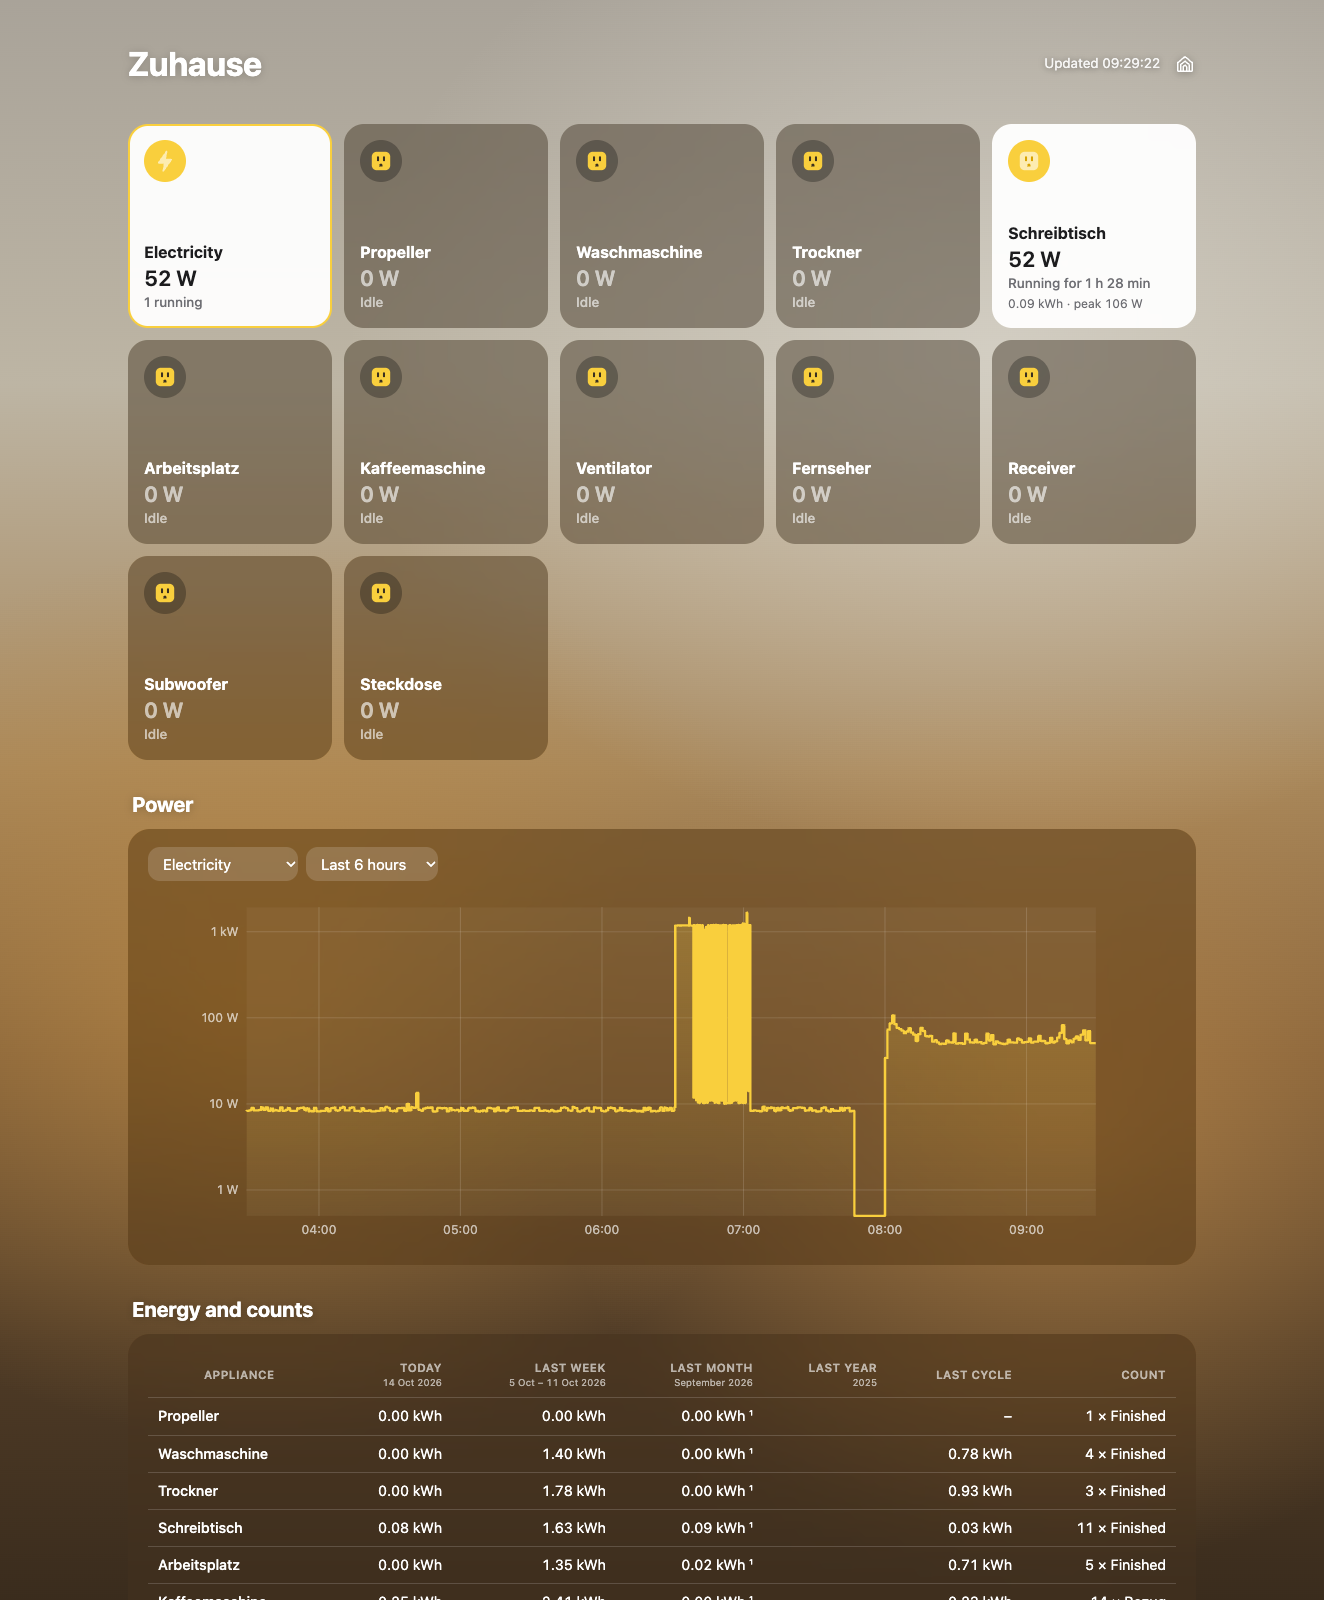
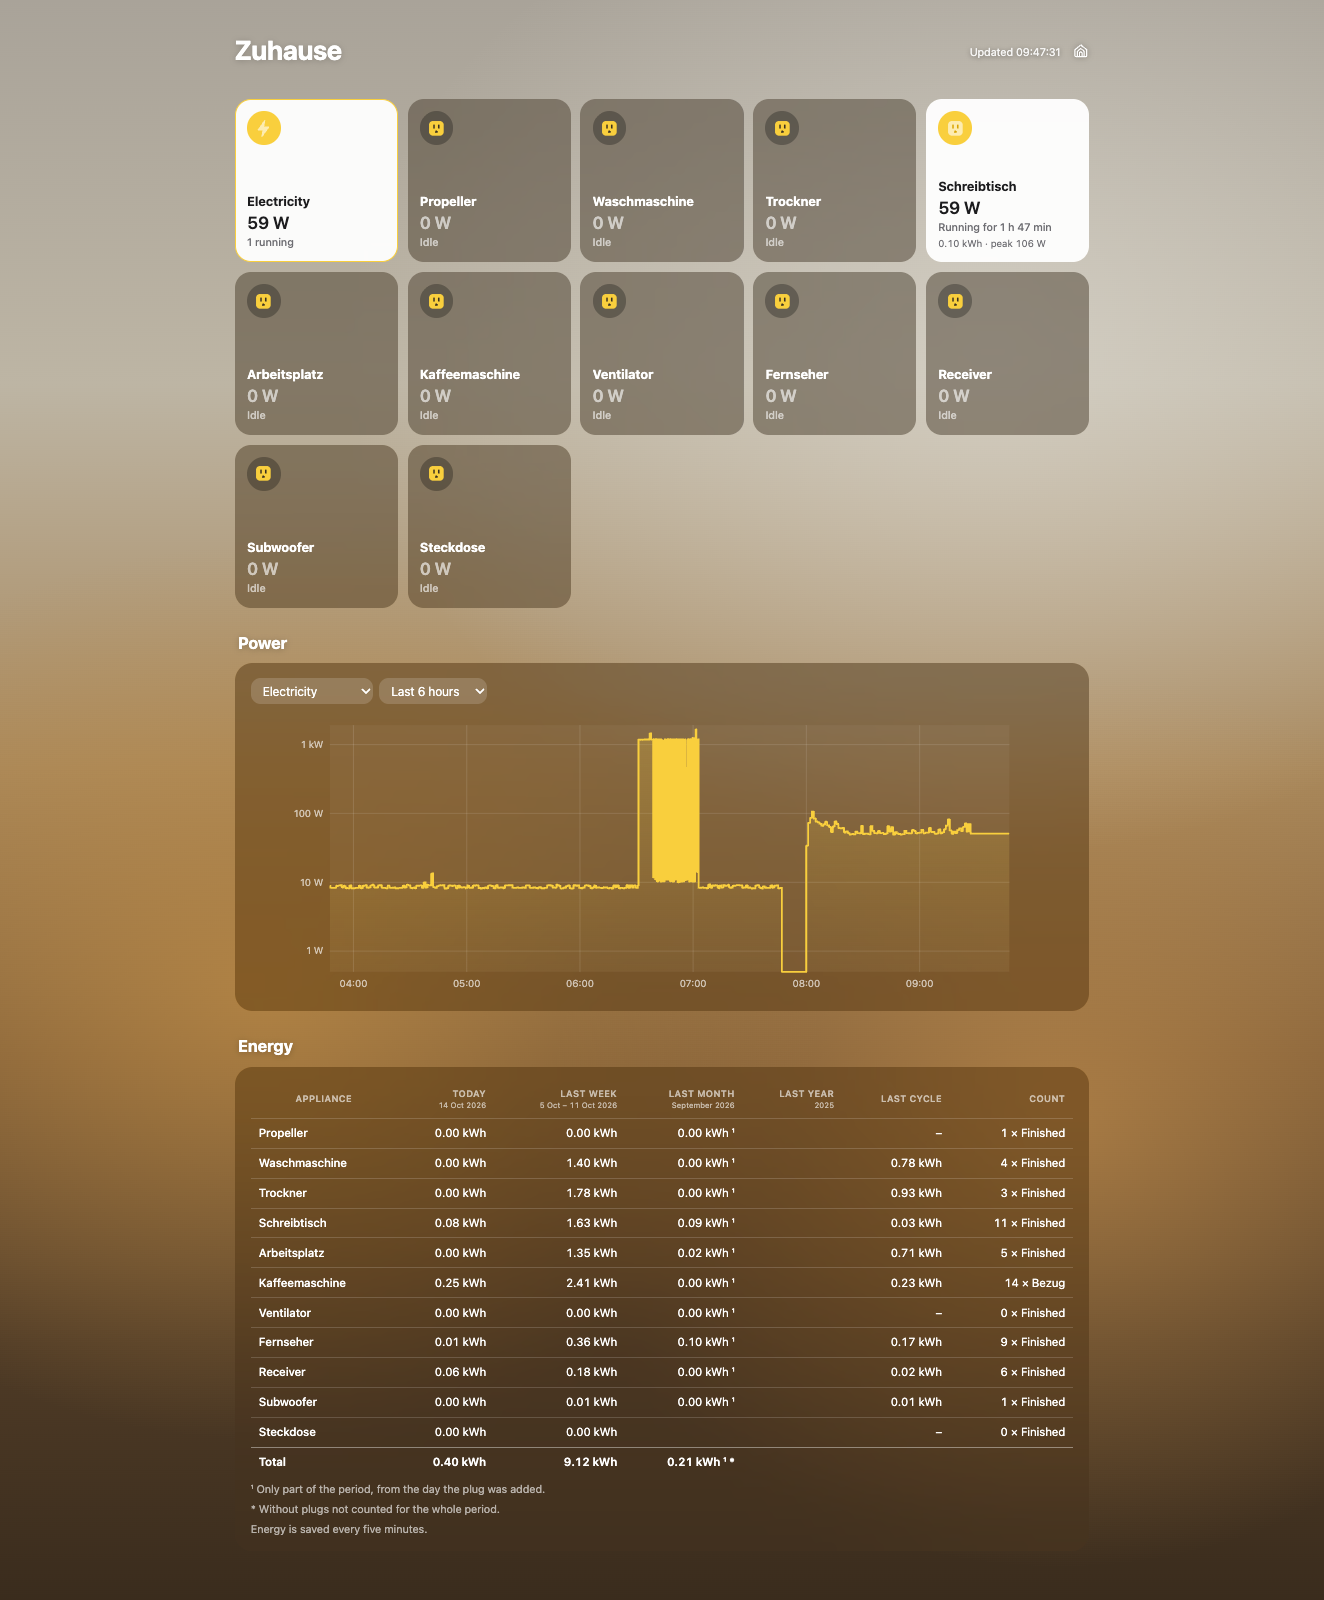
1.3.1: the dashboard a fifth smaller, statistics headed Energy
Drawn at zoom .8 above phone width, as if zoomed out twice; "Energy and
counts" is now "Energy". New README screenshots.

diff --git a/web/index.html b/web/index.html
@@ -38,6 +38,12 @@
     :root[data-theme="light"] { color-scheme: light; }
     :root[data-theme="dark"] { color-scheme: dark; }
     * { box-sizing: border-box; }
+    /* Everything a fifth smaller than the browser would draw it, as zooming out
+       twice: a wall tablet or a desk screen sees all tiles and the chart at once.
+       Not on a phone, where the text would get too small. */
+    @media (min-width: 561px) {
+      html { zoom: .8; }
+    }
     body { margin: 0; background: var(--bg); color: var(--text);
            font: 15px/1.4 -apple-system, BlinkMacSystemFont, "Segoe UI", Roboto, Helvetica, Arial, sans-serif; }
     main { max-width: 1100px; margin: 0 auto; padding: 20px 16px 40px; }
@@ -226,7 +232,7 @@
       <div id="chart"></div>
     </div>
 
-    <h2>Energy and counts</h2>
+    <h2>Energy</h2>
     <div class="card panel">
       <div class="scroll" id="stats"></div>
       <div class="muted notes" id="notes"></div>

diff --git a/CHANGELOG.md b/CHANGELOG.md
@@ -6,6 +6,14 @@ adheres to [semantic versioning](https://semver.org/spec/v2.0.0.html).
 
 ## [Unreleased]
 
+## [1.3.1] — 2026-10-14
+
+### Changed
+
+- The dashboard is drawn a fifth smaller, as if zoomed out twice, except on
+  a phone.
+- Its statistics are headed **Energy** instead of "Energy and counts".
+
 ## [1.3.0] — 2026-10-14
 
 ### Added
@@ -549,7 +557,8 @@ The first published version.
 - A short log: one line per plug on start, what a plug offers once when it is
   paired, then only what changes.
 
-[Unreleased]: https://github.com/rummeyer/homebridge-appliance-monitor/compare/v1.3.0...HEAD
+[Unreleased]: https://github.com/rummeyer/homebridge-appliance-monitor/compare/v1.3.1...HEAD
+[1.3.1]: https://github.com/rummeyer/homebridge-appliance-monitor/compare/v1.3.0...v1.3.1
 [1.3.0]: https://github.com/rummeyer/homebridge-appliance-monitor/compare/v1.2.3...v1.3.0
 [1.2.3]: https://github.com/rummeyer/homebridge-appliance-monitor/compare/v1.2.2...v1.2.3
 [1.2.2]: https://github.com/rummeyer/homebridge-appliance-monitor/compare/v1.2.1...v1.2.2
